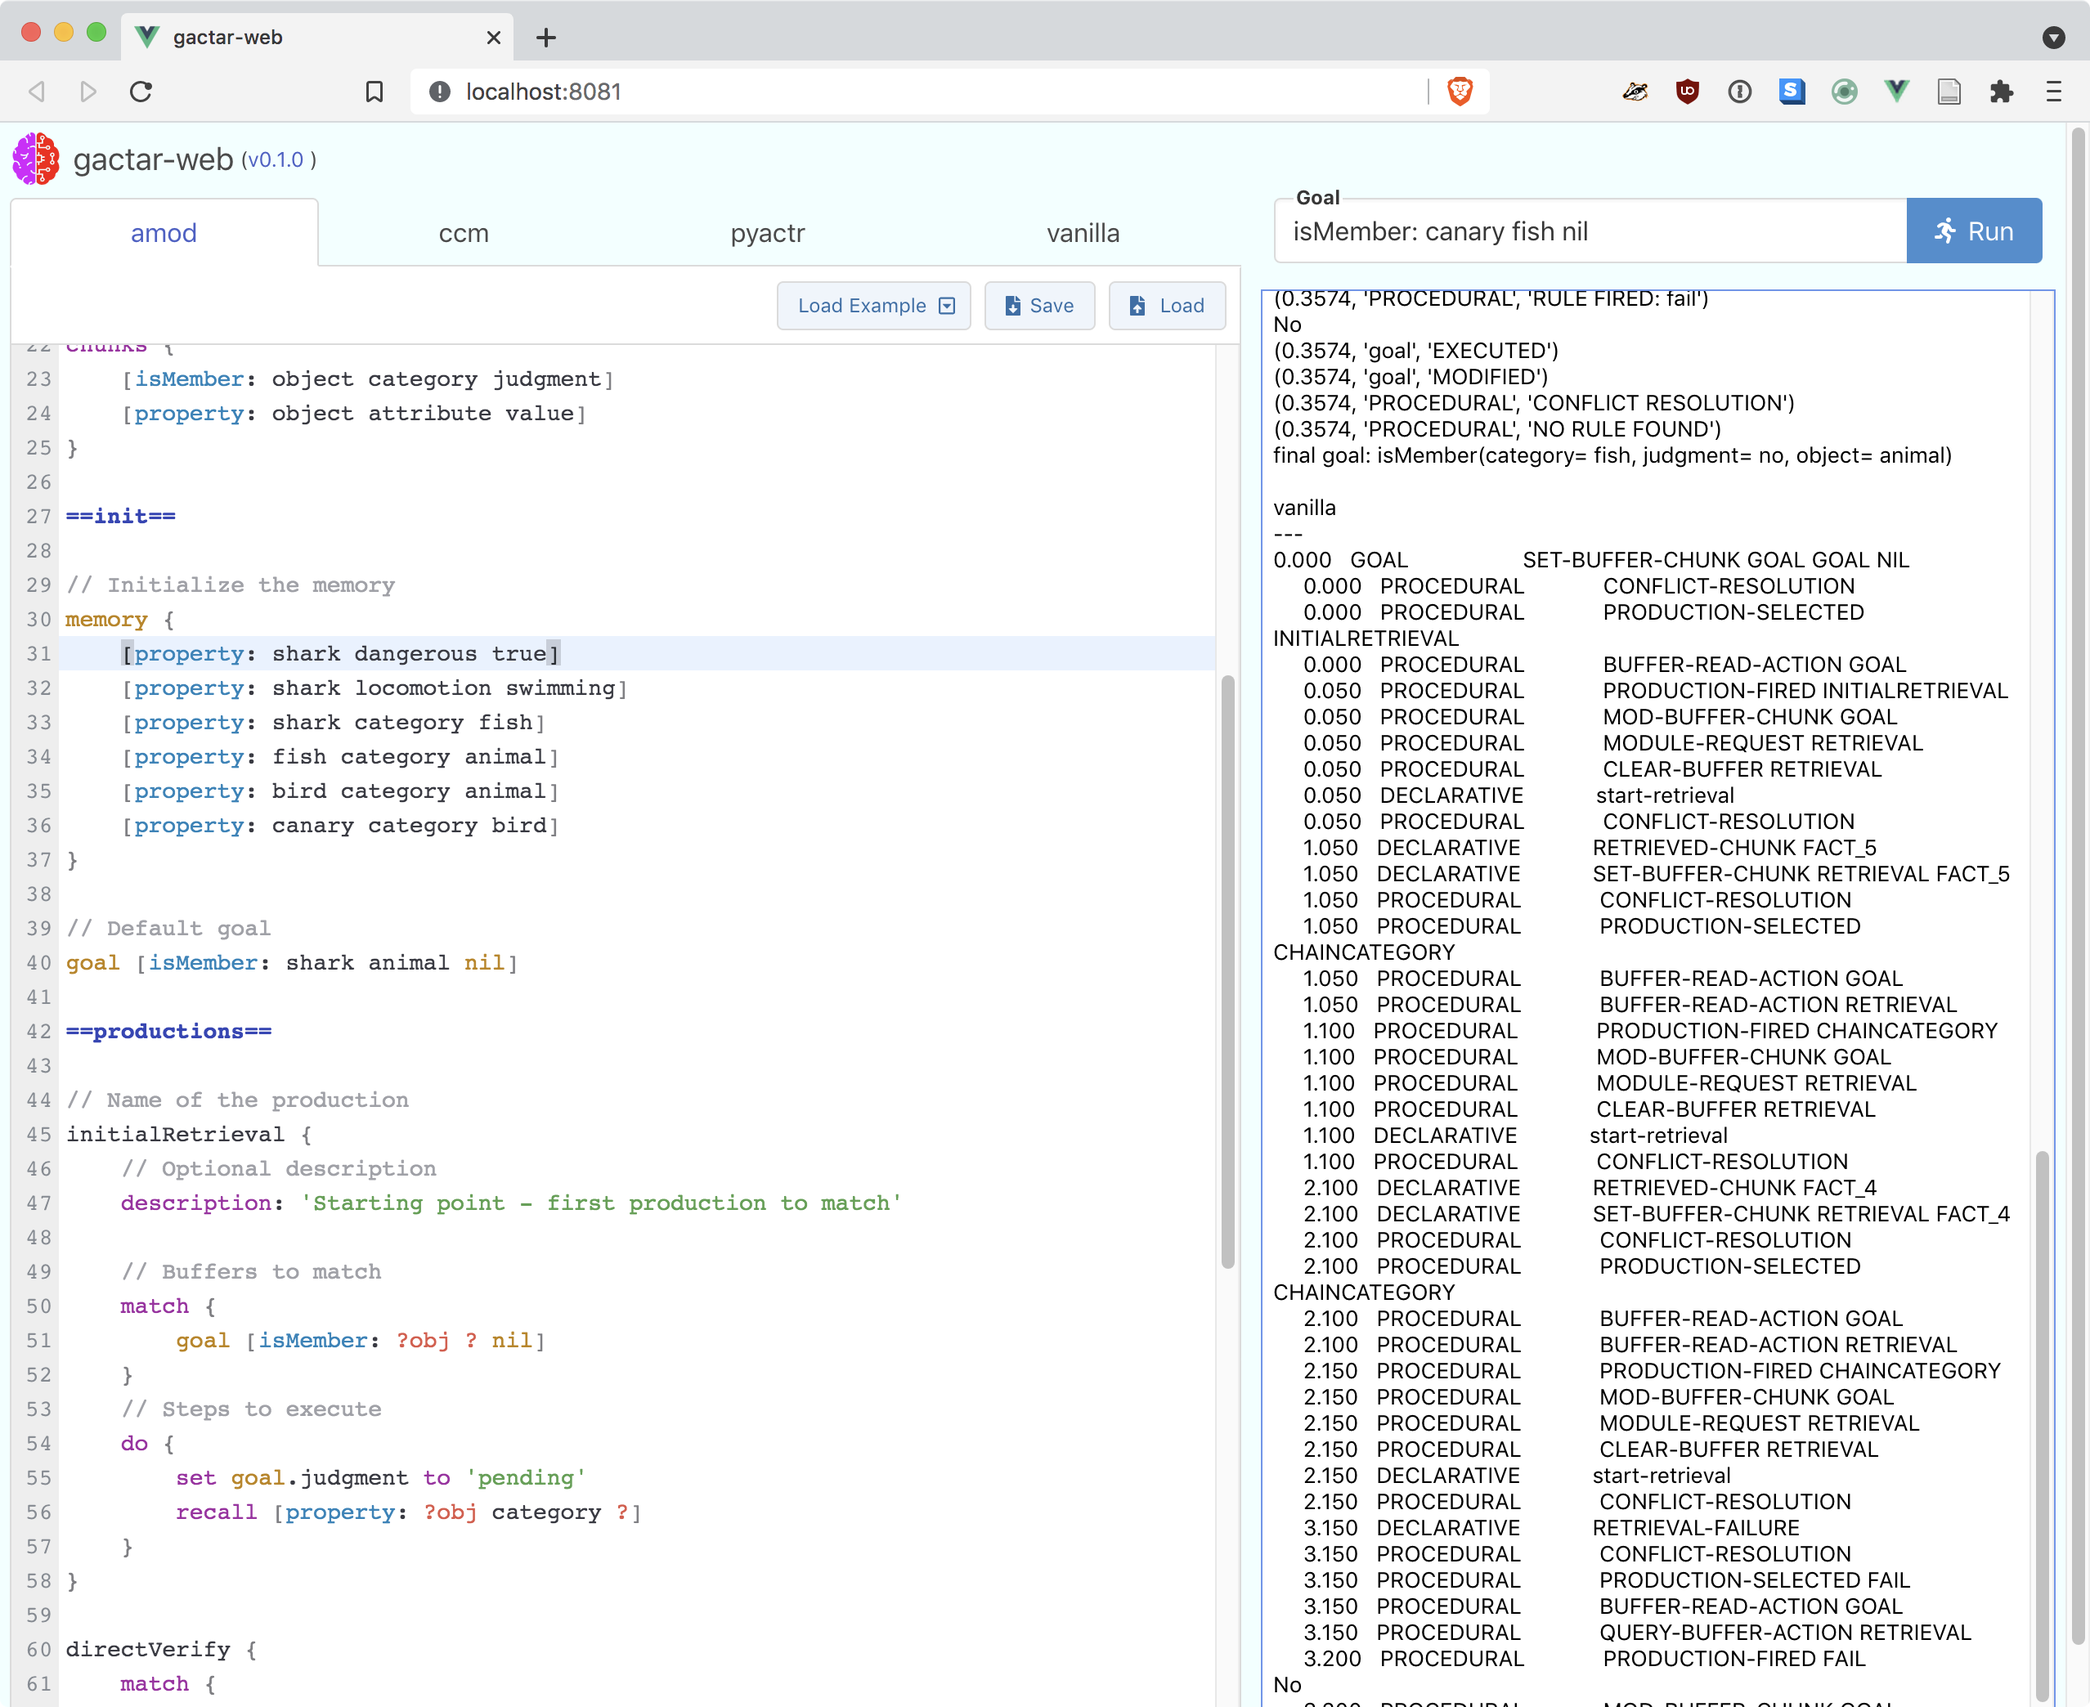
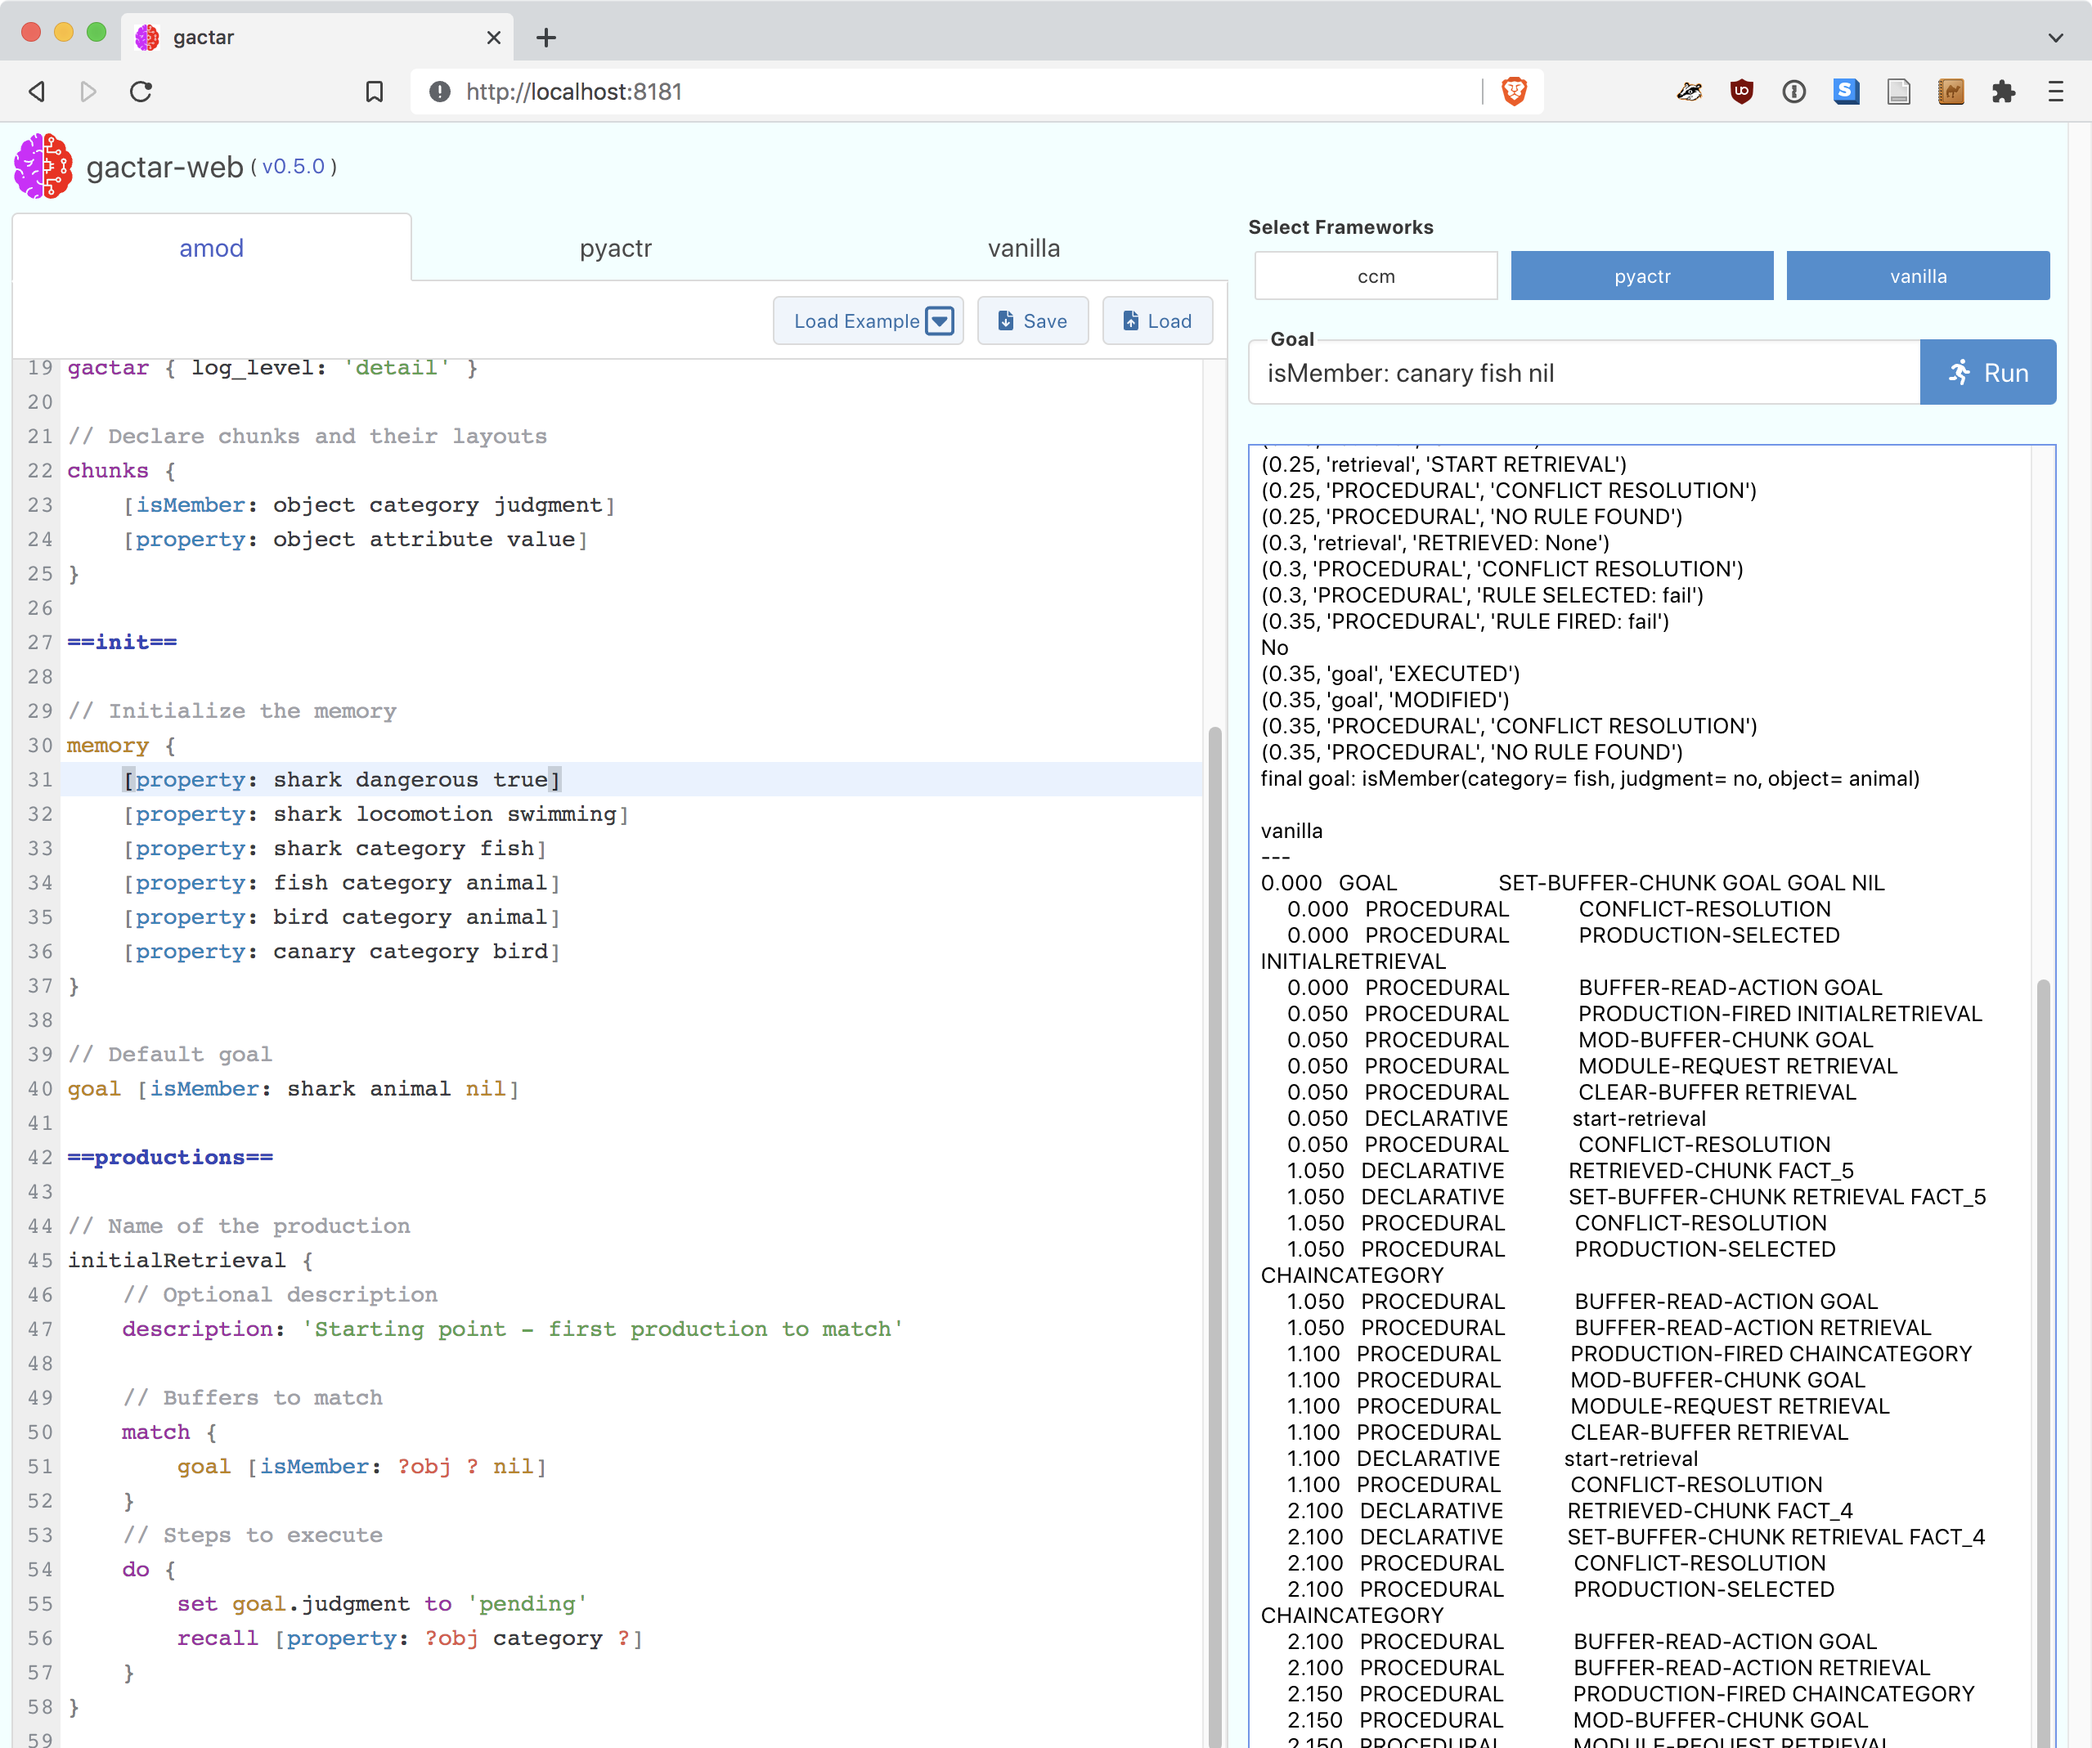
{doc} Update README & CHANGELOG
[skip ci]

diff --git a/README.md b/README.md
@@ -243,15 +243,15 @@ gactar [OPTIONS] [FILES...]
 
 **--ebnf**: output amod EBNF to stdout and quit
 
-**--framework, -f** [string]: add framework - valid frameworks: all, ccm, pyactr, vanilla (default: [all])
+**--framework, -f** [string]: add framework - valid frameworks: all, ccm, pyactr, vanilla (default: `all`)
 
 **--interactive, -i**: run an interactive shell
 
-**--output, -o** [string]: directory for generated files (will be created) (default: .)
-
-**--port, -p** [number]: port to run the web server on (default: 8181)
+**--port, -p** [number]: port to run the web server on (default: `8181`)
 
 **--run, -r**: run the models after generating the code
+
+**--temp** [string]: directory for generated files (it will be created if it does not exist) (default: `./gactar-temp`)
 
 **--web, -w**: start a web server to run in a browser
 
@@ -288,6 +288,7 @@ Opening `http://localhost:8181` in your browser will let you load, edit, and sav
 - modify the amod code in the editor
 - **Save** the amod code to a file
 - **Load** the amod code from a file
+- choose which frameworks to run under `Select Frameworks`
 - set a **Goal** to override the default goal in the _amod_ file
 - once it's been run, browse the generated code using the tabs at the top of the code editor
 
@@ -304,15 +305,15 @@ This will generate code for all active frameworks and optionally run the models.
 ```
 (env)$ ./gactar examples/count.amod
 gactar version v0.4.0
-pyactr: Using Python 3.9.12 from /path/to/gactar/env/bin/python3
+pyactr: Using Python 3.9.13 from /path/to/gactar/env/bin/python3
 	- Generating code for examples/count.amod
-	- written to ./pyactr_count.py
+	- written to gactar-temp/pyactr_count.py
 vanilla: Using SBCL 1.2.11 from /path/to/gactar/env/bin/sbcl
 	- Generating code for examples/count.amod
-	- written to ./vanilla_count.lisp
-ccm: Using Python 3.9.12 from /path/to/gactar/env/bin/python3
+	- written to gactar-temp/vanilla_count.lisp
+ccm: Using Python 3.9.13 from /path/to/gactar/env/bin/python3
 	- Generating code for examples/count.amod
-	- written to ./ccm_count.py
+	- written to gactar-temp/ccm_count.py
 ```
 
 You can choose which frameworks to use with `--framework` or `-f` like this:
@@ -320,20 +321,20 @@ You can choose which frameworks to use with `--framework` or `-f` like this:
 ```
 ./gactar -f ccm -f vanilla examples/count.amod
 gactar version v0.4.0
-ccm: Using Python 3.9.12 from /path/to/gactar/env/bin/python3
+ccm: Using Python 3.9.13 from /path/to/gactar/env/bin/python3
 	- Generating code for examples/count.amod
-	- written to ./ccm_count.py
+	- written to gactar-temp/ccm_count.py
 vanilla: Using SBCL 1.2.11 from /path/to/gactar/env/bin/sbcl
 	- Generating code for examples/count.amod
-	- written to ./vanilla_count.lisp
+	- written to gactar-temp/vanilla_count.lisp
 ```
 
-You can write the files to a different location using `--output` or `-o`:
+You can write the files to a different location using `--temp`:
 
 ```
-./gactar -f ccm -o intermediate examples/count.amod
+./gactar -f ccm -temp intermediate examples/count.amod
 gactar version v0.4.0
-ccm: Using Python 3.9.12 from /path/to/gactar/env/bin/python3
+ccm: Using Python 3.9.13 from /path/to/gactar/env/bin/python3
 	- Generating code for examples/count.amod
 	- written to intermediate/ccm_count.py
 ```
@@ -341,9 +342,9 @@ ccm: Using Python 3.9.12 from /path/to/gactar/env/bin/python3
 You can also choose to run the models using `--run` or `-r`:
 
 ```
-./gactar -f ccm -o intermediate -r examples/count.amod
+./gactar -f ccm -temp intermediate -r examples/count.amod
 gactar version v0.4.0
-ccm: Using Python 3.9.12 from /path/to/gactar/env/bin/python3
+ccm: Using Python 3.9.13 from /path/to/gactar/env/bin/python3
 	- Generating code for examples/count.amod
 	- written to intermediate/ccm_count.py
 == ccm ==

diff --git a/CHANGELOG.md b/CHANGELOG.md
@@ -2,6 +2,22 @@
 
 All notable changes to this project will be documented in this file. The format is based on [Keep a Changelog](https://keepachangelog.com/en/1.0.0/).
 
+## [0.5.0] - (in progress)
+
+### Added
+
+- New command line option `temp` to specify where to generate the intermediate code files. If not specified, it defaults to `./gactar-temp` in the directory gactar was run from. The directory will be created if it does not exist. ([#94](https://github.com/asmaloney/gactar/pull/94))
+- Web UI now allows the user to select which frameworks to run from the ones available on the server. ([#100](https://github.com/asmaloney/gactar/pull/100))
+- Added new `/api/frameworks` endpoint to get info on frameworks available on the server. ([#99](https://github.com/asmaloney/gactar/pull/99))
+- Added TypeScript interfaces for all endpoints (in api.ts).
+- The `/api/run` endpoint now accepts an optional list of frameworks to run (property: `frameworks`). If not specified, it will run on all available frameworks. ([#97](https://github.com/asmaloney/gactar/pull/97))
+- The return data for `/api/run` now includes the full path to the intermediate code file in the property `filePath`.
+
+### Changed
+
+- Use [camelCase](https://en.wikipedia.org/wiki/Camel_case) for all returned properties in the API.
+- Clean up API TypeScript interfaces.
+
 ## [0.4.0](https://github.com/asmaloney/gactar/releases/tag/v0.4.0) - 2022-05-20
 
 ### Added
